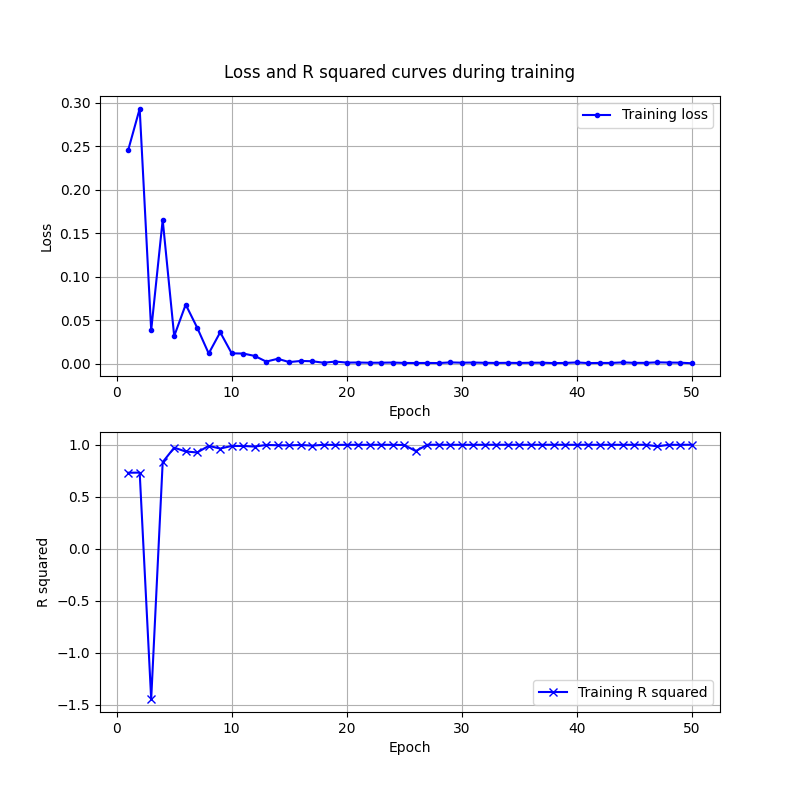
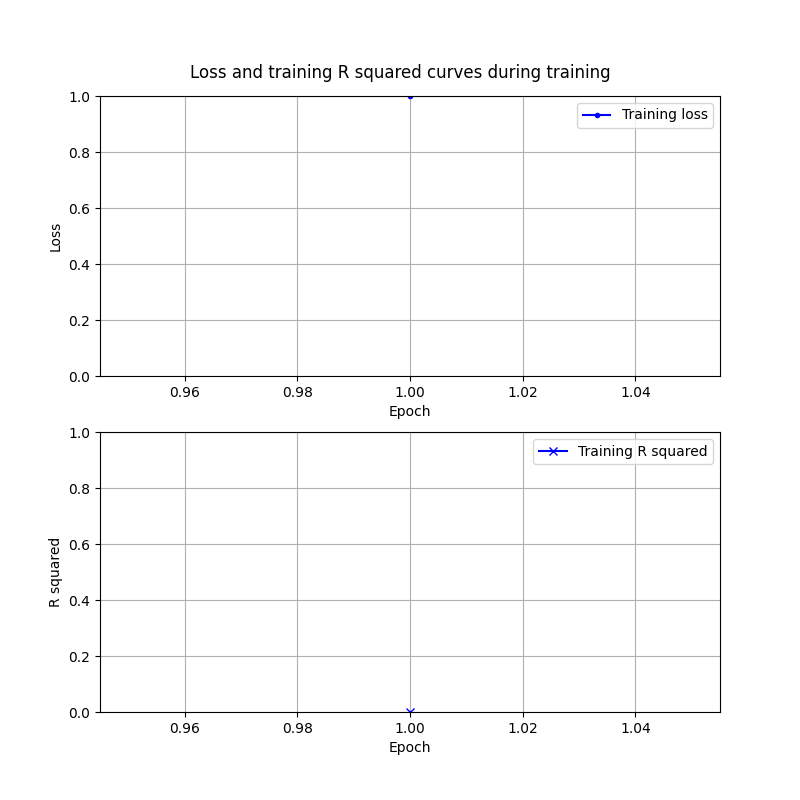
marea rulare

diff --git a/CNN/Permeability_CNN.py b/CNN/Permeability_CNN.py
@@ -4,7 +4,6 @@ import numpy as np
 import matplotlib.pyplot as plt
 from torch import nn
 import torch.nn.functional as F
-from sklearn.metrics import accuracy_score
 import os
 import sys
 import pandas as pd
@@ -132,7 +131,7 @@ if validation:
 
 
 # Initialize the dataloader using batch size hyperparameter
-batch_size = 32
+batch_size = int(len(train_permeability)/2)
 trainloader = torch.utils.data.DataLoader(dataset_train, batch_size=batch_size, shuffle=True, num_workers=0)
 
 loss_function = nn.MSELoss()
@@ -140,19 +139,18 @@ loss_function = nn.MSELoss()
 # Visualizing the CNN architectures
 torch.set_default_dtype(torch.float32)
 summary(MLPCNN().to('cuda'), input_size=(1, 1000, 1000))
-#summary(NoPoolCNN2().to('cuda'), input_size=(1, 1000, 1000))
+summary(NoPoolCNN2().to('cuda'), input_size=(1, 1000, 1000))
 torch.set_default_dtype(torch.float64)
 
-for cnn in [MLPCNN().to(my_device)]:
-    for lr in [5e-4]:
+for cnn in [MLPCNN().to(my_device), NoPoolCNN2().to(my_device)]:
+    for lr in [5e-5, 1e-4, 5e-4, 1e-3, 5e-3, 1e-2, 5e-2]:
         print(f'Using CNN: {cnn.__class__.__name__} with learning rate: {lr}')
         optimizer = torch.optim.Adam(cnn.parameters(), lr=lr)
 
-        # Log loss and accuracy per epoch
+    
         loss_per_epoch = []
         R_squared_per_epoch = []
 
-        # Number of epochs to train
         n_epochs = 50
 
         start_time = time.time()
@@ -162,7 +160,6 @@ for cnn in [MLPCNN().to(my_device)]:
             # Print epoch
             print(f'Starting epoch {epoch+1}')
 
-            # Log loss and accuracy per batch
             loss_per_batch = []
             R_squared_per_batch = []
 
@@ -185,12 +182,10 @@ for cnn in [MLPCNN().to(my_device)]:
                 # Compute loss
                 loss = loss_function(outputs, targets)
                 
-                # Compute error (absolute difference) for accuracy calculation
                 error = torch.abs(outputs - targets)
                 # Compute R^2 score
                 ss_residual = torch.sum((targets - outputs)**2)
                 ss_total = torch.sum((targets - torch.mean(targets))**2)
-                # print(ss_residual, ss_total)
                 R_squared = 1 - (ss_residual / ss_total)
 
                 # Perform backwards pass
@@ -206,7 +201,6 @@ for cnn in [MLPCNN().to(my_device)]:
             # Log loss value per epoch
             loss_per_epoch.append(np.mean(loss_per_batch))
             
-            # Log accuracy value per epoch
             R_squared_per_epoch.append(np.mean(R_squared_per_batch))
             print(f'\tAfter epoch {epoch+1}: Loss = {loss_per_epoch[epoch]}, R-squared = {R_squared_per_epoch[epoch]}')
             
@@ -215,21 +209,22 @@ for cnn in [MLPCNN().to(my_device)]:
         end_time = time.time()
         print(f'Training time: {end_time - start_time} seconds\n')
 
-
         fig, axs = plt.subplots(2,1,figsize=(8,8))
-        # Plot loss per epoch
+
         axs[0].plot(np.arange(1,len(loss_per_epoch)+1), loss_per_epoch, color='blue', label='Training loss', marker='.')
         axs[0].grid(True)
         axs[0].set_xlabel('Epoch')
         axs[0].set_ylabel('Loss')
+        axs[0].set_ylim([0, 1])
         axs[0].legend() 
-        # Plot accuracy per epoch
+
         axs[1].plot(np.arange(1,len(R_squared_per_epoch)+1), R_squared_per_epoch, color='blue', label='Training R squared', marker='x')
         axs[1].grid(True)
         axs[1].set_xlabel('Epoch')
         axs[1].set_ylabel('R squared')
+        axs[1].set_ylim([0, 1])
         axs[1].legend()
-        plt.suptitle('Loss and R squared curves during training', y=0.92)
+        plt.suptitle('Loss and training R squared curves during training', y=0.92)
         plt.savefig(os.path.join(os.path.dirname(os.path.abspath(sys.argv[0])), f'Loss_R_squared-{cnn.__class__.__name__}-{lr}.png'))
 
         # Evaluate model
@@ -272,26 +267,51 @@ for cnn in [MLPCNN().to(my_device)]:
 
         # Visualize the ground truth on x axis and predicted values on y axis
         fig, ax = plt.subplots(figsize=(8, 8))
-        ax.scatter(np.log10(all_targets), np.log10(all_predictions), color='blue', label='Predictions')
-        ax.plot([np.log10(all_targets.min()), np.log10(all_targets.max())], [np.log10(all_targets.min()), np.log10(all_targets.max())], 'k--', lw=2, label='Ideal')
+        ax.scatter(all_targets, all_predictions, color='blue', label='Predictions')
+        ax.plot([all_targets.min(), all_targets.max()], [all_targets.min(), all_targets.max()], 'k--', lw=2, label='Ideal')
+        ax.set_xlabel('Ground Truth')
+        ax.set_ylabel('Predicted')
+        ax.set_title('Ground Truth vs Predicted Values')
+        plt.xscale('log')
+        plt.yscale('log')
+        ax.legend()
+        ax.text(0.05, 0.95, f'R^2: {R_squared_all:.2f}', transform=ax.transAxes, fontsize=14, verticalalignment='top')
+        plt.savefig(os.path.join(os.path.dirname(os.path.abspath(sys.argv[0])), f'Log_results/Truth_vs_Predicted-all-logarithmic-{cnn.__class__.__name__}-{lr}.png'))
+
+        # Visualize the ground truth on x axis and predicted values on y axis
+        fig, ax = plt.subplots(figsize=(8, 8))
+        ax.scatter(test_targets, test_predictions, color='blue', label='Predictions')
+        ax.plot([all_targets.min(), all_targets.max()], [all_targets.min(), all_targets.max()], 'k--', lw=2, label='Ideal')
+        ax.set_xlabel('Ground Truth')
+        ax.set_ylabel('Predicted')
+        ax.set_title('Ground Truth vs Predicted Values')
+        plt.xscale('log')
+        plt.yscale('log')
+        ax.legend()
+        ax.text(0.05, 0.95, f'Test R^2: {R_squared_test:.2f}', transform=ax.transAxes, fontsize=14, verticalalignment='top')
+        plt.savefig(os.path.join(os.path.dirname(os.path.abspath(sys.argv[0])), f'Log_results/Truth_vs_Predicted-test-logarithmic-{cnn.__class__.__name__}-{lr}.png'))
+
+        fig, ax = plt.subplots(figsize=(8, 8))
+        ax.scatter(all_targets, all_predictions, color='blue', label='Predictions')
+        ax.plot([all_targets.min(), all_targets.max()], [all_targets.min(), all_targets.max()], 'k--', lw=2, label='Ideal')
         ax.set_xlabel('Ground Truth')
         ax.set_ylabel('Predicted')
         ax.set_title('Ground Truth vs Predicted Values')
         ax.legend()
         ax.text(0.05, 0.95, f'R^2: {R_squared_all:.2f}', transform=ax.transAxes, fontsize=14, verticalalignment='top')
-        plt.savefig(os.path.join(os.path.dirname(os.path.abspath(sys.argv[0])), f'Ground_Truth_vs_Predicted-all-{cnn.__class__.__name__}-{lr}.png'))
+        plt.savefig(os.path.join(os.path.dirname(os.path.abspath(sys.argv[0])), f'Normal_results/Truth_vs_Predicted-all-{cnn.__class__.__name__}-{lr}.png'))
         
 
         # Visualize the ground truth on x axis and predicted values on y axis
         fig, ax = plt.subplots(figsize=(8, 8))
-        ax.scatter(np.log10(test_targets), np.log10(test_predictions), color='blue', label='Predictions')
-        ax.plot([np.log10(all_targets.min()), np.log10(all_targets.max())], [np.log10(all_targets.min()), np.log10(all_targets.max())], 'k--', lw=2, label='Ideal')
+        ax.scatter(test_targets, test_predictions, color='blue', label='Predictions')
+        ax.plot([all_targets.min(), all_targets.max()], [all_targets.min(), all_targets.max()], 'k--', lw=2, label='Ideal')
         ax.set_xlabel('Ground Truth')
         ax.set_ylabel('Predicted')
         ax.set_title('Ground Truth vs Predicted Values')
         ax.legend()
         ax.text(0.05, 0.95, f'Test R^2: {R_squared_test:.2f}', transform=ax.transAxes, fontsize=14, verticalalignment='top')
-        plt.savefig(os.path.join(os.path.dirname(os.path.abspath(sys.argv[0])), f'Ground_Truth_vs_Predicted-test-{cnn.__class__.__name__}-{lr}.png'))
+        plt.savefig(os.path.join(os.path.dirname(os.path.abspath(sys.argv[0])), f'Normal_results/Truth_vs_Predicted-test-{cnn.__class__.__name__}-{lr}.png'))
         plt.close('all')
 
         # Free up memory to avoid 'CUDA out of memory' error when moving from one iteration to the next
